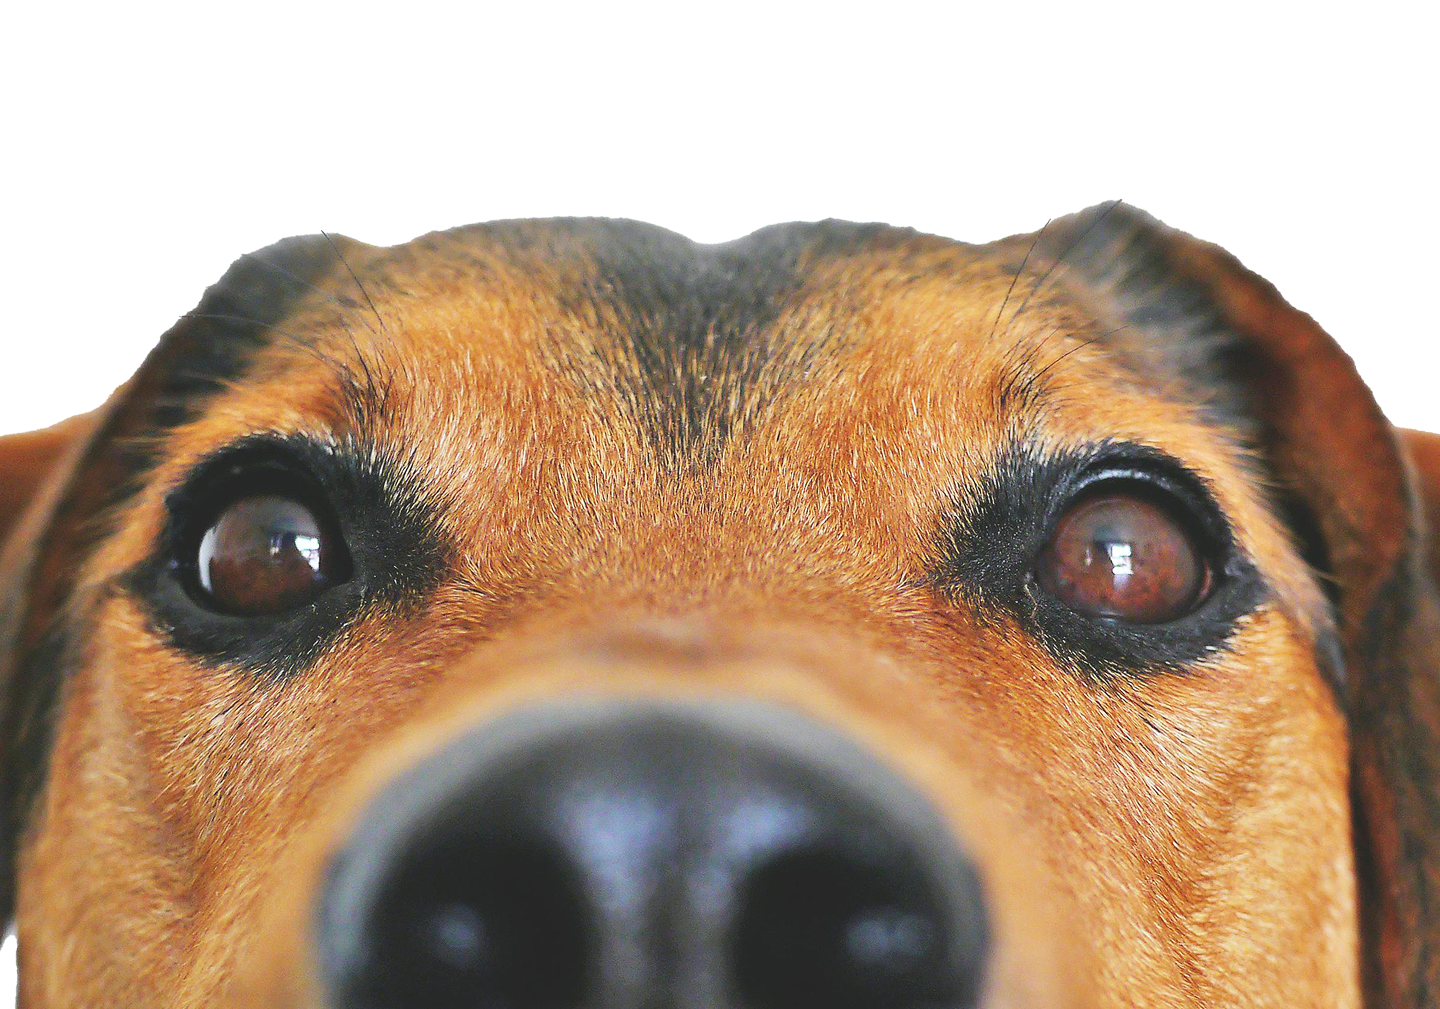
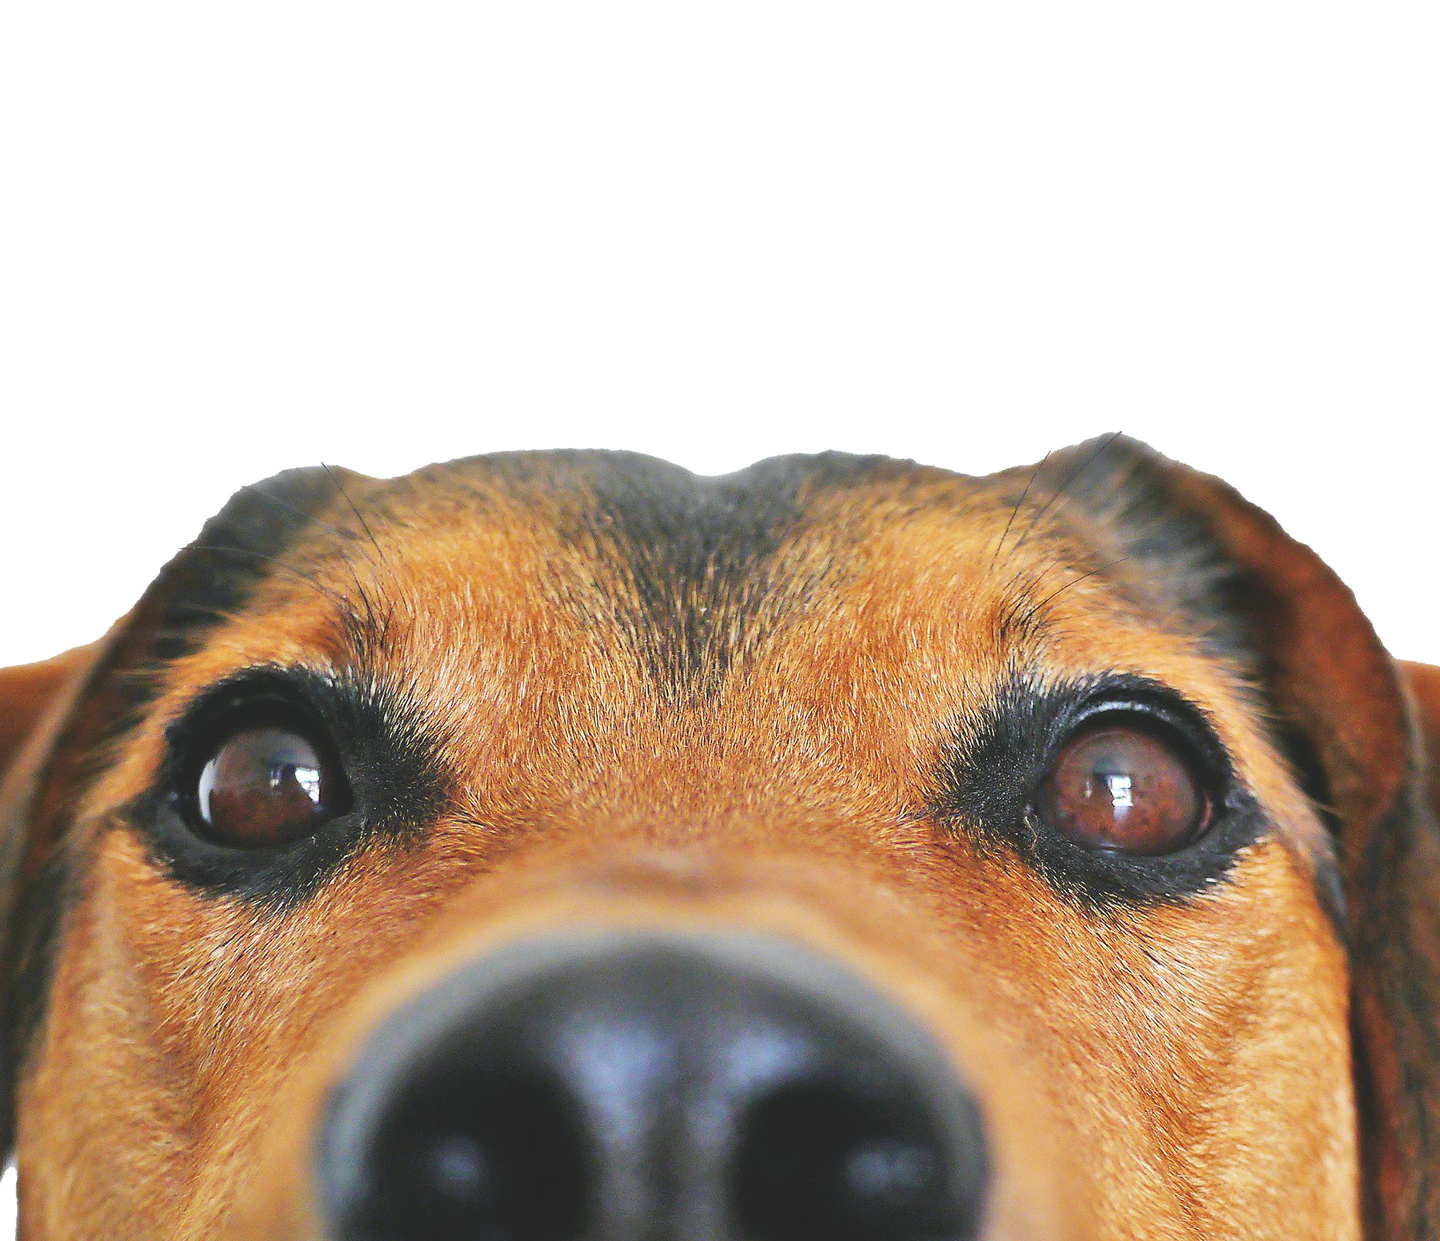
feat: add page responsiveness of homepage

diff --git a/resources/views/home.blade.php b/resources/views/home.blade.php
@@ -1,4 +1,4 @@
-@extends('layouts.header')
+@extends('layouts.app')
 <style>
 .dropdown-bar {
     margin-bottom: 20px;
@@ -65,9 +65,11 @@
 .hero-img {
     position: relative;
     z-index: 3;
+    display: flex;
+    justify-content: flex-end;
 
     img {
-        margin-bottom: -150px;
+        margin-bottom: -400px;
     }
 }
 
@@ -87,6 +89,7 @@
         h3 {
             font-size: 2.1em;
             margin: 0;
+            text-align: end;
         }
 
         h5 {
@@ -125,7 +128,6 @@
     mask-repeat: no-repeat;
     -webkit-mask-position: top;
     mask-position: top;
-    padding-top: 150px;
     z-index: 1;
     dispaly: flex;
     
@@ -153,11 +155,12 @@
     justify-content: center;
     z-index: 3;
     align-items: flex-end;
+    flex-wrap: wrap;
+    margin: 0 5%;
 }
 
 .pet-box {
     position: relative;
-    cursor: pointer;
     margin-top: -41em;
 }
 
@@ -303,14 +306,188 @@
 }
 
 .promos h2 {
-        display: flex;
-        flex-direction: column;
-        font-family: "Irish Grover", sans-serif;
-        align-items: center;
-        color: #FFE3CA;
-        font-size: 3.3em;
-        margin: 0;
+    display: flex;
+    flex-direction: column;
+    font-family: "Irish Grover", sans-serif;
+    align-items: center;
+    color: #FFE3CA;
+    font-size: 3.3em;
+    margin: 0;
 }
+
+@media screen and (max-width: 1465px) {
+    #dogContainer {
+        margin-top: -30em;
+    }
+
+    #catContainer {
+        margin-top: -30em;
+    }
+
+    #smallPetContainer {
+        margin-top: -5em;
+    }
+
+    .solipet-logo {
+        width: 25em;
+    }
+}
+
+@media screen and (max-width: 1250px) {
+    .solipet-logo {
+        width: 20em;
+    }
+
+    .hero-img {
+        img {
+            width: 90%;
+            margin-bottom: -500px;
+        }
+    }
+}
+
+@media screen and (max-width: 1050px) {
+    .solipet-logo {
+        width: 15em;
+    }
+
+    .hero-section {
+        min-height: 60vh;
+
+    }
+
+    .hero-img {
+        justify-content: center;
+
+        img {
+            width: 60%;
+            margin-bottom: -350px;
+        }
+    }
+
+    .solipet-tagline {
+        h3 {
+            font-size: 1.5em;
+            margin: 0;
+            text-align: end;
+        }
+
+        h5 {
+            font-size: 1.2em;
+            margin: 0;
+            text-align: end;
+        }
+    }
+    
+    .hero-text {
+        width: 50%;
+        height: 50vh;
+    }
+}
+
+@media screen and (max-width: 960px) {
+    #dogContainer {
+        margin-top: -20em;
+    }
+
+    #catContainer {
+        margin-top: -2em;
+    }
+
+    #smallPetContainer {
+        margin-top: -5em;
+    }
+}
+
+@media screen and (max-width: 800px) {
+    .hero-section {
+        flex-direction: column;
+        align-items: center;
+    }
+
+    .solipet-logo {
+        width: 25em;
+    }
+
+    .hero-img {
+        img {
+            width: 60%;
+            margin-bottom: -180px;
+        }
+    }
+}
+
+@media screen and (max-width: 800px) {
+    .solipet-logo {
+        width: 20em;
+    }
+}
+
+@media screen and (max-width: 700px) {
+    .hero-img {
+        img {
+            width: 60%;
+            margin-bottom: -160px;
+        }
+    }
+}
+
+@media screen and (max-width: 550px) {
+    .hero-img {
+        img {
+            width: 60%;
+            margin-bottom: -125px;
+        }
+    }
+
+    .pet-box {
+        display: flex;
+        justify-content: center;
+        width: 80%;
+
+        img {
+            width: 80%;
+        }
+    }
+
+    .pet-img {
+        width: 50%;
+    }
+
+    .hero-text {
+        width: 50%;
+        height: 30vh;
+    }
+}
+
+@media screen and (max-width: 470px) {
+    .pet-name {
+        margin: 0.5rem 0;
+    }
+}
+
+@media screen and (max-width: 450px) {
+    .solipet-logo {
+        width: 15em;
+    }
+
+    .hero-img {
+        img {
+            width: 60%;
+            margin-bottom: -100px;
+        }
+    }
+
+    #dogContainer {
+        margin-top: -15em;
+    }
+
+    .shop-button {
+        padding: 2%;
+        border-radius: 0.2em;
+    }
+}
+
 
 </style>
 
@@ -363,7 +540,7 @@
             </div>
         </div>
         <div class="pet-card-container">
-            <div class="pet-box">
+            <div class="pet-box" id="dogContainer">
                 <img src="{{ asset('assets/dog-container.png') }}" class="pet-frame" alt="Dog Frame">
                 <div class="pet-content">
                     <div class="pet-img">
@@ -373,7 +550,7 @@
                     <a href="{{ route('login') }}" class="shop-button">SHOP NOW</a>
                 </div>
             </div>
-            <div class="pet-box">
+            <div class="pet-box" id="catContainer">
                 <img src="{{ asset('assets/cat-container.png') }}" class="pet-frame" alt="Cat Frame">
                 <div class="pet-content">
                     <div class="pet-img">
@@ -383,7 +560,7 @@
                     <a href="{{ route('login') }}" class="shop-button">SHOP NOW</a>
                 </div>
             </div>
-            <div class="pet-box">
+            <div class="pet-box" id="smallPetContainer">
                 <img src="{{ asset('assets/small-pet-container.png') }}" class="pet-frame" alt="Rabbit Frame">
                 <div class="pet-content">
                     <div class="pet-img">
